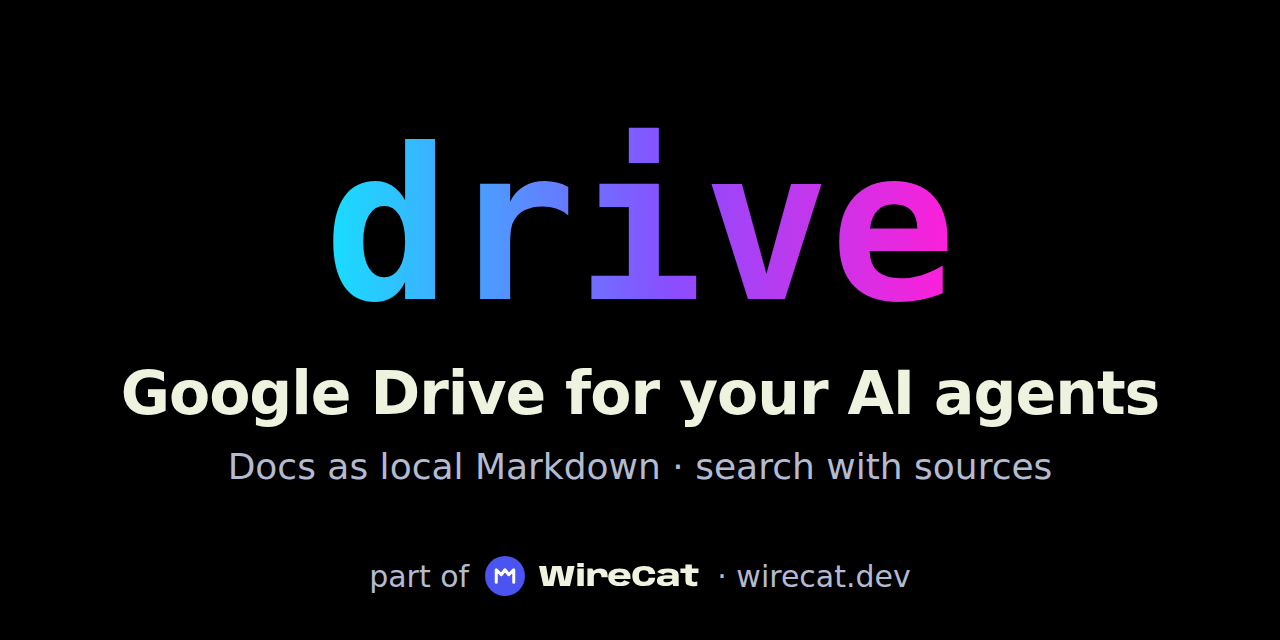
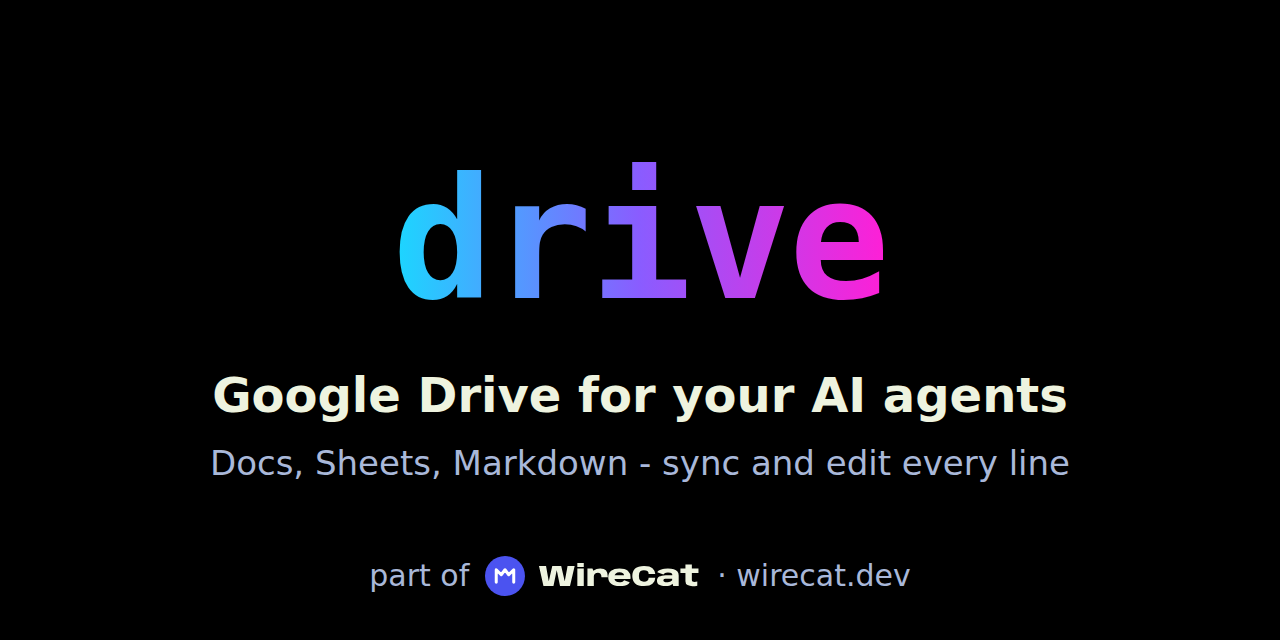
docs(readme): lead with block-by-block Google Doc editing through mirrors (#380)
## Task
Rewrite the README so it opens with `drive mirrors`: an agent (or you)
edits a Google Doc block by block from a local Markdown file instead of
replacing the whole file. Bring it to tg-cli's order per cli-base
WC-DOC-7.

## Why
Most readers open only the README. The block-level editing gain was
buried in docs/mirrors.md.

## What
- New first screen: banner, hero line, links row, badges, three bold
gains, "What you get" with an invented exchange, "Why drive" with the
link to docs/compare.md.
- Quick start sets up a mirror (`session start --grant write`, `mirrors
add`, `mirrors sync`). "Use it with your agent" follows. The existing
sections keep their content, with semicolons and long dashes rewritten.
- Contrast uses only verified facts: Google lets programs change a
Markdown file in Drive only by replacing all of it ([cli-testing
native-markdown](https://github.com/WireCatLabs/cli-testing/tree/main/performance/documents/native-markdown)).
Claude's built-in Google Drive connector's `update_file` changes
metadata only (tool schema, checked 2026-11-17). Nothing about Codex: no
official documentation found.
- docs/compare.md: one line pointing the "edit a Doc from Markdown" job
to the mirrors guide. The comparison table itself lives on wirecat.dev.
- No changelog fragment: README and docs only.

## Testing
`pnpm docs:check` (docs check, cspell, rumdl, markdownlint) and `pnpm
docs:spell` pass. Every link target of the old README is still present.
[…]

diff --git a/docs/images/src/banner.html b/docs/images/src/banner.html
@@ -1,0 +1,30 @@
+<!doctype html>
+<html lang="en">
+<head>
+<meta charset="utf-8">
+<title>cli-base banner</title>
+<!-- Rendered to ../social-preview.png by render.ts at 1280x640. The fonts are local, so the render needs no network. -->
+<style>
+  html, body { margin: 0; width: 1280px; height: 640px; background: #000; overflow: hidden; }
+  body { display: flex; flex-direction: column; align-items: center; justify-content: center; text-align: center; }
+  .name {
+    font: bold 168px/1 "DejaVu Sans Mono", monospace; letter-spacing: -2px;
+    background: linear-gradient(90deg, #1ad8ff 0%, #8a5cff 50%, #ff1fd6 100%);
+    -webkit-background-clip: text; background-clip: text; color: transparent;
+  }
+  .promise { margin-top: 44px; font: bold 48px/1.15 "DejaVu Sans", sans-serif; color: #eef3df; }
+  .detail { margin-top: 20px; font: 34px/1.2 "DejaVu Sans", sans-serif; color: #a9b8d9; }
+  .footer {
+    position: absolute; bottom: 44px; left: 0; right: 0; display: flex; align-items: center; justify-content: center;
+    gap: 16px; font: 30px/1 "DejaVu Sans", sans-serif; color: #a9b8d9;
+  }
+  .footer svg { height: 40px; width: auto; }
+</style>
+</head>
+<body>
+  <div class="name">drive</div>
+  <div class="promise">Google Drive for your AI agents</div>
+  <div class="detail">Docs, Sheets, Markdown - sync and edit every line</div>
+  <div class="footer">part of <svg xmlns="http://www.w3.org/2000/svg" viewBox="0 0 162.1 30" width="162" height="30" role="img" aria-label="WireCat"><g transform="scale(0.9375)"><circle cx="16" cy="16" r="16" fill="#4b53f0"/><path d="M9 21V11l4 4 3-4 3 4 4-4v10" fill="none" stroke="#fff" stroke-width="2.4" stroke-linejoin="round" stroke-linecap="round"/></g><g transform="translate(40 22.43)" fill="#eef3df"><path d="M3.87 0H11.37L13.82 -11.67H13.85L16.29 0H23.79L27.29 -14.85H21.96L19.85 -3.52H19.82L17.19 -14.85H10.48L7.87 -3.53H7.83L5.81 -14.85H0.52Z M29.3 0H34.12V-12.98H29.3ZM29.3 -17.15V-14.14H34.12V-17.15Z M47.4 -6.4H52.21Q52.21 -9.9 50.89 -11.5Q49.57 -13.09 46.48 -13.09Q43.45 -13.09 41.63 -11.6Q39.82 -10.1 39.82 -8.32L41.65 -7.05Q41.65 -8.2 42.51 -9.04Q43.38 -9.88 44.76 -9.88Q45.95 -9.88 46.67 -9.18Q47.4 -8.49 47.4 -6.4ZM36.87 0H41.67V-10.69L40.61 -12.98H36.87Z"/><path transform="translate(-1.6 0)" d="M62.6 0.14V-2.81Q60.86 -2.81 59.77 -3.57Q58.67 -4.31 58.67 -6.45Q58.67 -8.62 59.76 -9.39Q60.85 -10.19 62.49 -10.19Q64.16 -10.19 65.13 -9.52Q65.78 -9.02 65.98 -7.93H58.25V-5.12H70.72Q70.84 -5.71 70.84 -6.46Q70.84 -9.51 68.78 -11.33Q66.69 -13.12 62.47 -13.12Q58.43 -13.12 56.26 -11.38Q54.08 -9.63 54.08 -6.46Q54.08 -3.31 56.27 -1.58Q58.42 0.14 62.6 0.14ZM62.6 -2.81V0.14Q64.9 0.14 66.24 -0.18Q67.57 -0.48 68.7 -1.12Q69.82 -1.75 70.19 -2.71L66.05 -4.28Q65.7 -3.79 65.31 -3.46Q64.91 -3.14 64.26 -2.97Q63.63 -2.81 62.6 -2.81Z M80.96 0.09Q85.55 0.09 87.46 -1.79Q89.38 -3.67 89.38 -6.03H84.42Q84.42 -4.53 83.47 -3.83Q82.53 -3.13 80.9 -3.13Q79.22 -3.13 78.16 -3.96Q77.09 -4.79 77.09 -7.46Q77.09 -10.13 78.16 -10.96Q79.24 -11.78 80.9 -11.78Q82.54 -11.78 83.48 -11.1Q84.42 -10.41 84.42 -8.9H89.38Q89.38 -11.31 87.47 -13.15Q85.56 -14.99 80.96 -14.99Q76.39 -14.99 74.27 -13.03Q72.15 -11.07 72.15 -7.46Q72.15 -3.87 74.27 -1.89Q76.39 0.09 80.96 0.09Z M97.02 0.16Q98 0.16 98.87 0.01Q99.75 -0.13 100.47 -0.39Q101.18 -0.64 101.7 -0.97Q102.21 -1.29 102.46 -1.65L102.84 0H106.96V-7.86Q106.96 -9.68 106.03 -10.84Q105.1 -12 103.29 -12.56Q101.49 -13.11 98.85 -13.11Q97.57 -13.11 96.31 -12.94Q95.04 -12.76 93.95 -12.4Q92.85 -12.05 92.04 -11.49Q91.24 -10.93 90.88 -10.16L95.49 -8.47Q95.73 -9.02 96.25 -9.36Q96.76 -9.7 97.45 -9.86Q98.15 -10.02 98.88 -10.02Q99.9 -10.02 100.62 -9.83Q101.35 -9.64 101.75 -9.25Q102.15 -8.85 102.15 -8.21V-7.92H97.21Q95.61 -7.92 94.38 -7.69Q93.15 -7.46 92.33 -6.98Q91.5 -6.5 91.08 -5.76Q90.66 -5.01 90.66 -3.95Q90.66 -2.85 91.09 -2.07Q91.51 -1.28 92.34 -0.79Q93.16 -0.3 94.34 -0.07Q95.51 0.16 97.02 0.16ZM97.97 -2.75Q97.42 -2.75 96.96 -2.82Q96.51 -2.89 96.18 -3.04Q95.85 -3.2 95.68 -3.45Q95.5 -3.71 95.5 -4.11Q95.5 -4.51 95.67 -4.77Q95.83 -5.03 96.14 -5.17Q96.45 -5.31 96.92 -5.37Q97.38 -5.43 97.98 -5.43H102.05V-4.17Q101.74 -3.79 101.12 -3.46Q100.49 -3.13 99.68 -2.94Q98.86 -2.75 97.97 -2.75Z M117.3 0.19Q119.19 0.19 120.91 -0.19V-3.25Q119.88 -2.89 118.88 -2.89Q117.92 -2.89 117.37 -3.23Q116.83 -3.56 116.83 -4.66V-9.77H121.81V-12.98H116.83V-16.1H112.02V-12.98H108.24V-9.77H112.02V-3.57Q112.02 -1.51 113.59 -0.66Q115.17 0.19 117.3 0.19Z"/></g></svg> <span>· wirecat.dev</span></div>
+</body>
+</html>

diff --git a/docs/images/src/render.ts b/docs/images/src/render.ts
@@ -1,0 +1,28 @@
+// Renders banner.html to the README banner. Run from anywhere: node docs/images/src/render.ts
+import { spawnSync } from "node:child_process"
+import { mkdtempSync } from "node:fs"
+import { tmpdir } from "node:os"
+import { join } from "node:path"
+import { fileURLToPath, pathToFileURL } from "node:url"
+
+const CHROME = process.env.CHROME ?? "/usr/bin/google-chrome"
+const SOURCE = fileURLToPath(new URL("banner.html", import.meta.url))
+const OUTPUT = fileURLToPath(new URL("../social-preview.png", import.meta.url))
+
+// A throwaway profile, so the render never opens the owner's Chrome profile.
+const profile = mkdtempSync(join(tmpdir(), "banner-chrome-"))
+const result = spawnSync(
+  CHROME,
+  [
+    "--headless",
+    "--disable-gpu",
+    "--hide-scrollbars",
+    "--force-device-scale-factor=1",
+    "--window-size=1280,640",
+    `--user-data-dir=${profile}`,
+    `--screenshot=${OUTPUT}`,
+    pathToFileURL(SOURCE).href,
+  ],
+  { stdio: "inherit" },
+)
+process.exitCode = result.status ?? 1

diff --git a/README.md b/README.md
@@ -1,49 +1,117 @@
-<img src="https://raw.githubusercontent.com/WireCatLabs/drive-cli/main/docs/images/social-preview.png" alt="Google Drive for your AI agents: Docs as local Markdown, search with sources" width="100%">
+<p align="center">
+  <img src="https://raw.githubusercontent.com/WireCatLabs/drive-cli/main/docs/images/social-preview.png" alt="drive: Google Drive for your AI agents. Docs, Sheets, Markdown, sync and edit every line" width="100%">
+</p>
 
-# drive-cli
+# drive: Google Drive and Docs for AI agents
 
-`drive` imports selected Google Drive folders into local Markdown snapshots and searchable
-documents. It reads Google Docs across all tabs, keeps source identity through renames and moves,
-and reuses WireCat's shared keyword search and optional local embeddings. Shared tags, notes,
-editor identities and evidence-backed memories stay attached to the imported documents.
+<p align="center">
+  Your agent edits a Google Doc a few lines at a time, from a Markdown file on your computer, while your colleagues
+  keep writing and commenting in it. For you and for Claude Code, Codex or any app that speaks MCP.
+</p>
 
-Drive uses Google's official Node clients.
-Sources supported now: native Google Docs and Sheets, PDF, docx, xlsx, CSV, TSV, and uploaded Markdown/TXT.
-Other types and shortcuts are reported as skipped; shortcuts are not followed outside the selected scope.
+<p align="center">
+  <a href="https://wirecat.dev/en/docs/drive">Docs</a> ·
+  <a href="https://github.com/WireCatLabs/drive-cli/blob/main/docs/recipes.md">Examples</a> ·
+  <a href="https://discord.gg/DebENqbRrJ">Discord</a>
+</p>
+
+<p align="center">
+  <a href="https://www.npmjs.com/package/@wirecat/drive-cli"><img src="https://img.shields.io/npm/v/@wirecat/drive-cli" alt="npm"></a>
+  <a href="https://github.com/WireCatLabs/drive-cli/actions/workflows/ci.yml"><img src="https://github.com/WireCatLabs/drive-cli/actions/workflows/ci.yml/badge.svg" alt="CI"></a>
+  <a href="https://www.npmjs.com/package/@wirecat/drive-cli"><img src="https://img.shields.io/npm/dm/@wirecat/drive-cli" alt="npm downloads"></a>
+  <a href="https://github.com/WireCatLabs/drive-cli/blob/main/LICENSE"><img src="https://img.shields.io/badge/license-Apache--2.0-blue" alt="License: Apache 2.0"></a>
+</p>
+
+- **Edit a Google Doc block by block.** You or your agent change a local Markdown file with any editor or the agent's
+  usual file edit. `drive personal mirrors sync` sends only the changed blocks, such as a paragraph or a list item, to the Doc.
+  Comments on the text you left alone stay where they are.
+- **Your colleagues' edits are kept.** What they changed in other parts of the Doc comes back into your file. A part
+  changed on both sides is reported with both versions, never silently written over.
+- **Search your Drive with sources.** Import the folders you choose, then search them on your computer by words or by
+  meaning. Every result links to the original Google file.
+
+## What you get
+
+- **An agent that edits like a careful colleague.** It changes the two lines you asked about. The rest of the Doc, and
+  the comments on it, stay as they were.
+- **Changes from Google land in your file.** A colleague's edit comes back on the lines it touched. Your own `*`
+  bullets and code fences stay as you wrote them.
+- **Conflicts you can see.** When the same paragraph changed in the file and in Google, sync shows both versions, who
+  changed it in Google and when. You choose with `--keep local`, `--keep google` or `--keep both`.
+- **Hands-free sync.** `drive personal mirrors watch` syncs on each save and asks Google for changes every minute.
+- **Answers with their source.** "What did we decide about the Q4 budget?" returns the passage and the link to the
+  Doc it came from.
+
+```text
+You:    In plans/q4.md, rewrite the Risks section around the vendor delay. Leave the rest.
+Agent:  (edits 3 lines under "## Risks" in plans/q4.md)
+        (runs drive personal mirrors sync: 1 file sent, 1 pulled)
+        The Risks section is updated in the Google Doc. Dana Example changed the Timeline in Google
+        meanwhile, so her edit is now in your file too.
+```
+
+## Why drive
+
+- **Small edits instead of a new copy.** Google lets programs change a Markdown file in Drive only by replacing all of
+  it ([measured](https://github.com/WireCatLabs/cli-testing/tree/main/performance/documents/native-markdown)). A
+  replace writes the agent's copy over the whole file, so an edit a colleague made after the agent read it is lost.
+  drive keeps a real Google Doc in step with your file and sends small edits next to theirs. Google refuses an edit
+  from drive if the Doc changed after drive read it, so nothing is written over.
+- **What your agent gets that a plain Drive connector does not give.** Claude's built-in Google Drive connector can
+  create a new file and change a file's title or folder, but not its text (its `update_file` tool, checked
+  on 2026-11-17). With drive, the agent edits the text itself.
+- **Search that stays on your computer.** Google Docs are read across all their tabs, and a document keeps its identity
+  through renames and moves. Keyword search and optional local embeddings come from WireCat's shared search.
+- **Safe to give to an agent.** Reads are the default. Changes in Google need a sign-in with `--grant write`, and
+  `DRIVE_READ_ONLY=1` refuses every change.
+- **Free and open source.** Apache 2.0, built on Google's official Node clients.
 
 How it compares with gog, Workspace MCP and rclone, and when another tool fits better:
 [compared with other tools](docs/compare.md).
 
-## Install
-
-Install the compiled CLI with Node 22.16+ on the 22.x line or Node 24+. A source build is not
-required:
+## Quick start
 
 ```sh
 npm install -g @wirecat/drive-cli
-drive --version
-drive --help
+drive personal session start --grant write
+drive personal mirrors add ./notes --parent https://drive.google.com/drive/folders/FOLDER_ID
+drive personal mirrors sync
 ```
 
-See [installation and Google connection](docs/installation.md). Source builds are for
-[contributors](docs/dev/DEVELOPMENT.md).
+`personal` is a name you choose for this Google account. The first sync turns each `.md` file in `./notes` into a
+Google Doc in that folder. Edit a file, run `mirrors sync` again, and only what changed reaches the Doc. The full
+guide, with CSV files as Sheets and what happens on a conflict: [mirror local files with Google](docs/mirrors.md).
+
+You need Node 22.16+ on the 22.x line or Node 24+. See [installation and Google connection](docs/installation.md).
+Source builds are for [contributors](docs/dev/DEVELOPMENT.md).
 
 `drive doctor` shows the version, settings file, profiles and paths without signing in, and `drive upgrade`
 installs a newer version with the package manager that installed drive.
 
-`drive guide` lists scenarios — the commands for a common task, in order — and `drive commands --json` is the full
-command tree. For an agent, `drive skill install` puts drive's instructions where Claude Code, Codex, Gemini CLI and
-OpenClaw look (Hermes with `--for hermes`), `drive personal mcp serve` serves three MCP tools (search, read, write) —
-`--http` serves them to ChatGPT and Claude in the browser ([remote MCP](docs/remote.md)) — and `DRIVE_READ_ONLY=1`
-refuses every change, as `--read-only` does.
+## Use it with your agent
+
+Ask in plain words. The agent picks the commands.
+
+> *"Use drive. Tighten the intro of notes/launch.md and sync it to the Doc."*
+> *"Use drive. Find what we decided about the vendor contract, with the link."*
+
+- **Claude Code, Codex** and other agents with a terminal edit the Markdown file with their usual file tools and run
+  `drive` themselves. `drive skill install` puts drive's instructions where Claude Code, Codex, Gemini CLI and
+  OpenClaw look (Hermes with `--for hermes`).
+- **Apps that speak MCP** connect to `drive personal mcp serve`. It serves three tools (search, read, write), and
+  an agent can run `mirrors sync` through them. `mirrors watch` runs only from the command line.
+- **ChatGPT and Claude in the browser** reach it with `--http` ([remote MCP](docs/remote.md)).
+
+`drive guide` lists scenarios, the commands for a common task in order, and `drive commands --json` is the full
+command tree. `DRIVE_READ_ONLY=1` refuses every change, as `--read-only` does.
 
 ## Sign in and choose folders
 
 Sign in with WireCat's included Google application. Each user approves their own account in the
 browser. Making a shared Google application public for Drive is complex, so Google may refuse
-the sign-in; see [what to do](docs/installation.md#google-shows-an-unverified-app-warning).
+the sign-in. See [what to do](docs/installation.md#google-shows-an-unverified-app-warning).
 You can also create your own Desktop client as explained in the
-[installation guide](docs/installation.md). Connect your account, then choose a folder:
+[installation guide](docs/installation.md). Connect your account, then choose a folder to import for search:
 
 ```sh
 drive personal session start
@@ -55,23 +123,27 @@ For Google Cloud setup and an isolated first run, follow the
 [browser sign-in and live validation guide](docs/dev/GOOGLE_OAUTH.md).
 
 Sign-in opens the system browser and receives Google's callback on a temporary loopback port.
-`--no-browser` prints the URL. `drive.readonly` grants account-wide reading; our selected-folder
-scope limits ingestion. Sync reads remote files. Optional remote management commands need a
-new sign-in with `session start --grant write`; history events need `session start --grant activity`.
+`--no-browser` prints the URL. `drive.readonly` grants account-wide reading, and our selected-folder
+scope limits ingestion. Sync reads remote files. Mirrors and other remote changes need a
+new sign-in with `session start --grant write`, and history events need `session start --grant activity`.
 
 Credentials use the OS keyring. Where it fails, drive uses an owner-only private file without
-asking and says so once; `--credential-storage file` chooses the file outright, not recommended. Tokens never enter regular config, output
-or diagnostics. Your own Google app replaces the bundled one with `session start --client-file` or `--client-id`,
-`DRIVE_GOOGLE_CLIENT_ID` and `DRIVE_GOOGLE_CLIENT_SECRET`, or the `google_client_id` setting, in that order. The included Desktop
-client identity is public application metadata, separate from private user tokens. If you create
-your own Desktop client and leave it in Testing, Google usually ends its sign-ins after seven days.
+asking and says so once. `--credential-storage file` chooses the file outright, not recommended. Tokens never enter
+regular config, output or diagnostics. Your own Google app replaces the bundled one with `session start --client-file`
+or `--client-id`, `DRIVE_GOOGLE_CLIENT_ID` and `DRIVE_GOOGLE_CLIENT_SECRET`, or the `google_client_id` setting, in that
+order. The included Desktop client identity is public application metadata, separate from private user tokens. If you
+create your own Desktop client and leave it in Testing, Google usually ends its sign-ins after seven days.
 [Google OAuth guide](https://developers.google.com/identity/protocols/oauth2/native-app),
 [Drive permissions](https://developers.google.com/workspace/drive/api/guides/api-specific-auth).
 
 Use `drive work …` for another account. Each Google account has one local profile. `drive session list`
 lists configured profiles. `session end` removes local sign-in while retaining cached data and
 configuration so re-login preserves document identities. `account remove --keep-data` or `--delete-data` goes
-further: it revokes the sign-in at Google and forgets the profile, and `--delete-data` also deletes its snapshots.
+further. It revokes the sign-in at Google and forgets the profile, and `--delete-data` also deletes its snapshots.
+
+Sources supported for import now: native Google Docs and Sheets, PDF, docx, xlsx, CSV, TSV, and uploaded
+Markdown or TXT. Other types and shortcuts are reported as skipped, and shortcuts are not followed outside the
+selected scope.
 
 ## Search and export
 
@@ -85,11 +157,12 @@ drive personal status --json
 drive commands sync --json
 ```
 
-Search results include the original Google URL. `documents show`, `list` and `export` print `synced_at` and `age_days`; a copy older than a day adds `missing`, `next` and `meta.complete: false`. `documents show` includes each tab's text, ID
-and title. Native Markdown exports are saved separately from the all-tab text used for indexing.
+Search results include the original Google URL. `documents show`, `list` and `export` print `synced_at` and
+`age_days`. A copy older than a day adds `missing`, `next` and `meta.complete: false`. `documents show` includes each
+tab's text, ID and title. Native Markdown exports are saved separately from the all-tab text used for indexing.
 Export refuses to overwrite an existing destination file.
 
-Semantic search uses the shared local text model (about 135 MB). Download it once; it needs no profile or sign-in,
+Semantic search uses the shared local text model (about 135 MB). Download it once. It needs no profile or sign-in,
 and every WireCat CLI shares it:
 
 ```sh
@@ -97,7 +170,7 @@ drive models download e5-small
 drive personal sync --embed
 ```
 
-Drive never downloads a model on its own; a missing one is reported. `--exact` searches words without semantic
+Drive never downloads a model on its own, and a missing one is reported. `--exact` searches words without semantic
 retrieval.
 
 ## Keep it current
@@ -108,7 +181,7 @@ drive personal folders remove FOLDER_ID
 drive personal sync --json
 ```
 
-A batch is persisted before processing; interrupted work resumes next run. Progress is saved
+A batch is persisted before processing, and interrupted work resumes next run. Progress is saved
 every 25 files or 2 seconds, so a killed sync redoes at most that many. The first walk of the
 chosen folders is saved as it goes, and an interrupted walk continues from the folders it had not
 listed yet. The change cursor advances when the batch completes. Incomplete discovery preserves the prior checkpoint and
@@ -116,33 +189,8 @@ documents. A per-profile heartbeat lock prevents simultaneous syncs and recovers
 
 Confirmed removals and scope exits remove sources from search and delete their snapshots.
 Removing the last selected folder reconciles to an empty cache on the next sync. Unsupported,
-restricted and oversized sources have explicit coverage status. Transient failures remain pending;
-a partial sync with errors exits nonzero. Doc IDs, rather than names, distinguish duplicates.
-
-## Storage and coverage
-
-The shared path helper chooses platform-appropriate config, data and cache directories under
-drive-cli. Override with `DRIVE_CONFIG_DIR`, `DRIVE_STATE_DIR` and `DRIVE_CACHE_DIR`. Snapshots are
-`profiles/<profile>/documents/<file-id>.md` plus private JSON metadata and raw Docs responses.
-
-Documents use the same local WireCat database as Memo, Telegram and MAX. Imports become searchable
-across those tools, alongside messages and notes. `MESSAGING_STORE` selects another database;
-`WIRECAT_STATE_DIR` moves the default WireCat directory. Google sign-ins remain separate.
-
-On first use after an upgrade, Drive rebuilds old document references from its managed snapshots,
-without fetching Google. It retains the old database. If that database contains tags, notes,
-memories, facts or relationships, Drive refuses to strand them: keep using that file through
-`MESSAGING_STORE` until those annotations are transferred.
-
-Search covers body text, nested tables and footnotes from all tabs. Images, headers, footers,
-comments and suggested edits are excluded. Image assets are not downloaded. Search text and Google’s native Markdown export are separate representations; inspect the export
-when layout or tab coverage matters.
-
-One sync reads at most 10,000 entries under the chosen folders and saves where it stopped; the next sync goes on from
-there. A sync also stops after 15 minutes in a terminal, 45 seconds over MCP, and the next one goes on. One folder
-may hold at most 10,000 entries, and one sync reads at most 10,000 changes from Google's change feed; past either, it stops with nothing lost and says what to do. Text caps at
-2,000,000 characters and snapshots at 50 MiB, with bounded pagination. Oversized input is refused rather than truncated. Google's native export
-also has its own 10 MB limit. Documents changing during export remain pending for retry.
+restricted and oversized sources have explicit coverage status. Transient failures remain pending,
+and a partial sync with errors exits nonzero. Doc IDs, rather than names, distinguish duplicates.
 
 ## Document knowledge and remote actions
 
@@ -159,20 +207,47 @@ drive personal documents history DOC_ID
 drive api list service:docs
 ```
 
+Shared tags, notes, editor identities and evidence-backed memories stay attached to the imported documents.
 AI extraction explicitly sends selected cached text to the configured model. It previews proposals
-unless `--yes` is given; saved proposals include source quotes, snapshot hashes and model authorship.
+unless `--yes` is given. Saved proposals include source quotes, snapshot hashes and model authorship.
 Use the shared model setup with `models set --provider openai --model MODEL_ID`. Provider keys
 come from the corresponding API-key environment variable and never enter regular configuration.
 Source content changes and scope removals mark source-backed memories stale. User notes stay local.
 
 The generated API exposes 85 methods: 64 Drive, 17 Sheets, 3 Docs and 1 Activity. Convenient commands include
-file listing/copying/moving, trash/restore, folder creation, Docs creation/batch updates, comments,
+file listing, copying and moving, trash and restore, folder creation, Docs creation and batch updates, comments,
 permissions, revisions and Shared Drives. Read grants remain the default. JSON API calls require
-explicit flags for mutation and permanent deletion; Google still enforces file roles and API policy.
+explicit flags for mutation and permanent deletion. Google still enforces file roles and API policy.
 
 Read the [knowledge and API command guide](docs/dev/KNOWLEDGE_AND_API.md) for complete examples,
 permissions, history limits, AI settings and supported request formats. Contributor checks use
-isolated sources and mocked provider requests; see the [testing guide](docs/dev/TESTING.md).
+isolated sources and mocked provider requests. See the [testing guide](docs/dev/TESTING.md).
+
+## Storage and coverage
+
+The shared path helper chooses platform-appropriate config, data and cache directories under
+drive-cli. Override with `DRIVE_CONFIG_DIR`, `DRIVE_STATE_DIR` and `DRIVE_CACHE_DIR`. Snapshots are
+`profiles/<profile>/documents/<file-id>.md` plus private JSON metadata and raw Docs responses.
+
+Documents use the same local WireCat database as Memo, Telegram and MAX. Imports become searchable
+across those tools, alongside messages and notes. `MESSAGING_STORE` selects another database, and
+`WIRECAT_STATE_DIR` moves the default WireCat directory. Google sign-ins remain separate.
+
+On first use after an upgrade, Drive rebuilds old document references from its managed snapshots,
+without fetching Google. It retains the old database. If that database contains tags, notes,
+memories, facts or relationships, Drive refuses to strand them. Keep using that file through
+`MESSAGING_STORE` until those annotations are transferred.
+
+Search covers body text, nested tables and footnotes from all tabs. Images, headers, footers,
+comments and suggested edits are excluded. Image assets are not downloaded. Search text and Google’s native Markdown
+export are separate representations. Inspect the export when layout or tab coverage matters.
+
+One sync reads at most 10,000 entries under the chosen folders and saves where it stopped, and the next sync goes on
+from there. A sync also stops after 15 minutes in a terminal, 45 seconds over MCP, and the next one goes on. One folder
+may hold at most 10,000 entries, and one sync reads at most 10,000 changes from Google's change feed. Past either, it
+stops with nothing lost and says what to do. Text caps at 2,000,000 characters and snapshots at 50 MiB, with bounded
+pagination. Oversized input is refused rather than truncated. Google's native export also has its own 10 MB limit.
+Documents changing during export remain pending for retry.
 
 ## Community
 

diff --git a/docs/compare.md b/docs/compare.md
@@ -3,3 +3,7 @@
 Use this page to pick a tool by the job you want done and to see how `drive` compares with other Google Drive tools. The comparison itself lives on wirecat.dev, because it changes when the other tools change, not when `drive` is released.
 
 Read the comparison: [`drive` compared with other tools](https://wirecat.dev/en/docs/drive/compare).
+
+To let an agent edit a Google Doc a few lines at a time from a local Markdown file, while people keep working in the
+Doc, use `drive mirrors`: it sends only the changed blocks and merges edits made in Google. See
+[mirror local files with Google](mirrors.md).
